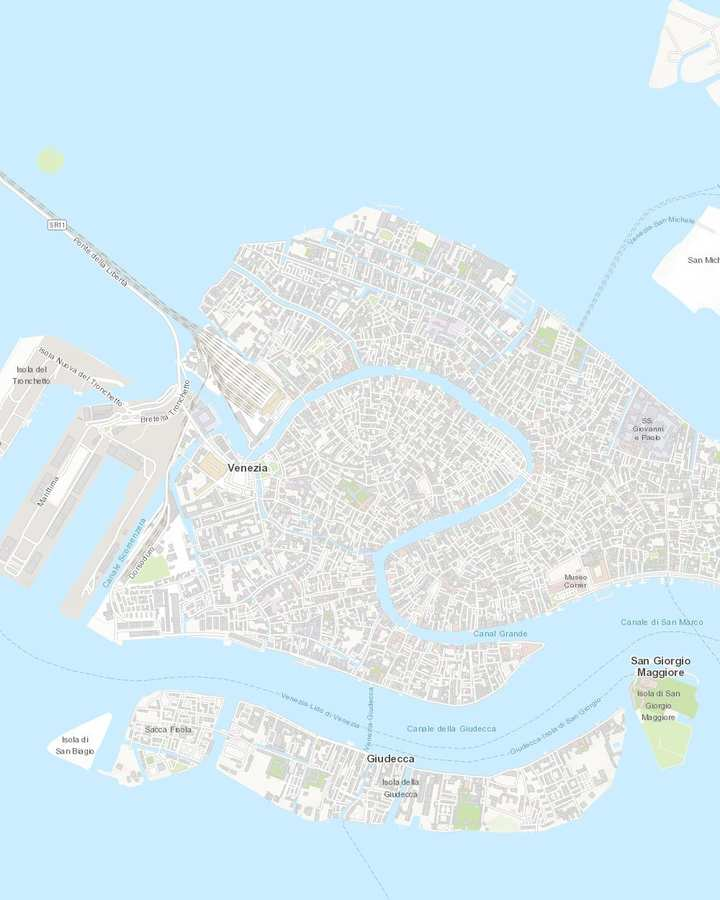
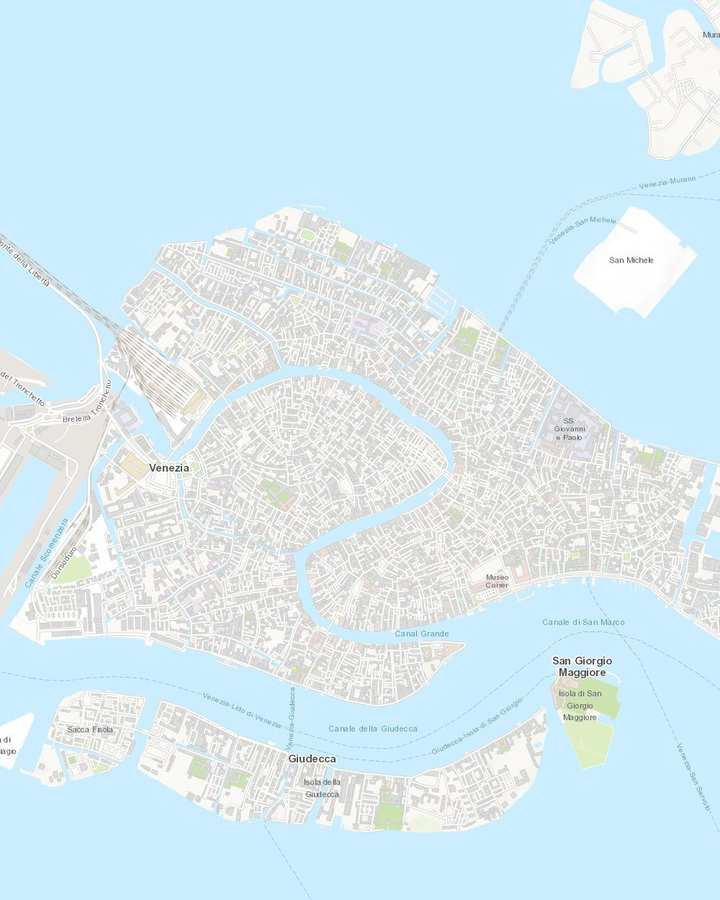
第 49 轮补：地图 6c/7a 水上巴士改画成沿大运河的船线（新增 boat 模式），7c 重取瓦片

diff --git a/index.html b/index.html
@@ -1795,31 +1795,31 @@ var MAPS2 = {
   "6c": {
     w:1000, h:1250,
     img:"maps/6c.jpg",
-    walk:[[724,660],[722,659],[728,662],[730,663],[735,667],[737,665],[738,663],[740,661],[741,659],[747,661],[752,662],[754,663],[754,666],[755,668],[758,670],[761,670],[764,671],[768,671],[772,672],[774,673],[776,675],[784,677],[788,679],[795,682],[801,684],[804,685],[808,687],[810,688],[812,690],[815,693],[819,697],[820,699],[822,702],[826,707],[831,704],[832,704],[832,704],[826,707],[821,710],[815,714],[810,718],[808,720],[806,723],[804,725],[801,728],[797,732],[799,735],[795,739],[793,740],[791,742],[788,746],[791,751],[794,759],[797,764],[799,766],[800,769],[801,771],[803,775],[798,778],[792,782],[792,782],[798,778],[803,775],[802,772],[800,769],[799,767],[797,764],[795,760],[791,751],[788,746],[786,744],[789,741],[783,735],[772,727],[771,724],[769,723],[759,715],[754,711],[756,708],[758,704],[753,702],[747,700],[744,698],[741,697],[743,692],[735,684],[737,681],[741,672],[739,671],[736,669],[734,668],[730,663],[728,662],[723,658],[722,660],[723,658],[725,655],[723,654],[721,652],[722,650],[725,644],[728,640],[723,635],[718,631],[718,628],[711,619],[709,617],[701,609],[703,607],[700,605],[692,598],[690,596],[693,596],[698,583],[699,580],[704,575],[708,567],[706,566],[702,563],[697,559],[694,557],[684,551],[682,550],[679,548],[675,546],[673,544],[671,543],[668,540],[666,537],[664,535],[661,531],[660,529],[659,527],[657,525],[656,523],[651,515],[645,506],[642,501],[640,499],[633,505],[631,506],[628,503],[623,499],[621,494],[617,492],[612,495],[610,502],[607,502],[605,501],[604,503],[603,509],[604,503],[605,501],[607,493],[604,492],[605,485],[606,481],[607,479],[600,477],[596,475],[592,472],[590,471],[588,470],[585,469],[580,466],[577,465],[574,465],[561,464],[558,464],[554,465],[549,467],[544,468],[542,469],[538,470],[533,471],[531,472],[525,472],[520,472],[514,473],[509,473],[504,473],[500,473],[497,474],[495,473],[492,473],[490,474],[485,476],[475,483],[474,486],[473,491],[472,496],[467,502],[465,504],[456,511],[450,516],[446,519],[443,521],[441,524],[438,526],[435,529],[425,540],[422,544],[421,547],[419,550],[409,556],[406,558],[400,551],[396,545],[391,540],[388,538],[387,540],[388,542]],
+    walk:[[615,660],[613,659],[619,662],[621,663],[626,667],[627,665],[629,663],[631,661],[632,659],[638,661],[643,662],[645,663],[645,666],[646,668],[649,670],[652,670],[655,671],[659,671],[662,672],[664,673],[666,674],[675,677],[679,679],[686,682],[692,684],[695,685],[699,687],[701,688],[703,690],[706,693],[710,697],[711,699],[713,702],[717,707],[722,704],[723,704],[723,704],[717,707],[712,710],[706,714],[701,718],[699,720],[697,723],[695,725],[692,728],[688,732],[690,735],[686,739],[684,740],[682,742],[679,746],[681,751],[685,759],[688,764],[690,766],[691,769],[692,771],[694,775],[689,778],[683,782],[683,782],[689,778],[694,775],[693,772],[691,769],[690,767],[688,764],[686,760],[681,751],[679,746],[677,744],[680,741],[674,735],[663,727],[662,724],[660,723],[650,715],[645,711],[647,708],[648,704],[644,702],[638,700],[635,698],[632,697],[634,692],[626,684],[628,681],[632,672],[630,671],[627,669],[625,668],[621,663],[619,662],[614,658],[613,660],[614,658],[616,655],[614,654],[612,652],[613,650],[616,644],[619,640],[613,635],[609,631],[609,628],[602,619],[600,617],[591,609],[593,607],[591,605],[583,598],[581,596],[584,596],[589,583],[590,580],[595,575],[599,567],[597,566],[593,563],[588,559],[585,557],[575,551],[573,550],[570,548],[566,546],[564,544],[562,543],[559,540],[557,537],[555,535],[552,531],[551,529],[550,527],[548,525],[547,523],[542,515],[536,506],[533,501],[531,499],[524,505],[522,506],[519,503],[514,499],[512,494],[508,492],[503,495],[501,502],[498,502],[496,501],[495,503],[494,509],[495,503],[496,501],[498,493],[495,492],[496,485],[497,481],[498,479],[491,477],[487,475],[485,474],[483,472],[481,471],[479,470],[476,469],[471,466],[468,465],[465,465],[452,464],[449,464],[445,465],[440,467],[435,468],[433,469],[429,470],[424,471],[422,472],[416,472],[411,472],[404,473],[399,473],[395,473],[391,473],[388,474],[386,473],[383,473],[381,474],[376,476],[366,483],[365,486],[364,491],[363,496],[358,502],[356,504],[347,511],[341,516],[337,519],[334,521],[332,524],[329,526],[326,529],[316,540],[313,544],[311,547],[310,550],[300,556],[297,558],[291,551],[287,545],[282,540],[279,538],[278,540],[279,542]],
     walkBreaks:[36, 60],
-    drive:[[299,621],[293,614],[290,614],[288,612],[283,606],[281,602],[278,598],[273,591],[268,584],[266,581],[264,578],[263,576],[260,571],[258,567],[255,560],[254,558],[253,556],[252,553],[252,549],[251,547],[249,546],[246,546],[245,548],[241,553],[238,556],[236,558],[235,560],[231,562],[228,564],[225,565],[222,567],[219,567],[215,568],[206,569],[203,570],[200,570],[198,571],[195,573],[193,574],[191,575],[188,576],[185,577],[181,578],[177,577],[174,577],[171,577],[169,578],[168,580],[169,583],[170,585],[172,586],[174,585],[178,584],[182,583],[185,583],[187,584],[190,584],[193,584],[195,582],[195,579],[195,575],[196,573],[198,571],[200,570],[203,570],[206,569],[214,569],[219,567],[222,567],[225,565],[228,564],[231,562],[235,560],[236,558],[238,556],[240,554],[243,551],[246,550],[248,551],[250,552],[251,555],[252,558],[253,562],[254,565],[255,567],[256,569],[257,571],[259,574],[263,580],[265,582],[281,608],[286,613],[287,615],[293,621],[295,624],[297,627],[299,629],[301,631],[303,633],[306,634],[308,636],[311,638],[313,640],[315,643],[319,646],[323,649],[325,650],[327,648],[325,646],[310,634],[306,631],[301,626],[295,620],[290,614],[288,612],[283,606],[281,602],[278,598],[273,591],[268,584],[266,581],[264,578],[263,576],[260,571],[258,567],[255,560],[254,558],[253,556],[252,553],[252,549],[251,547],[249,546],[246,546],[245,548],[241,553],[238,556],[236,558],[235,560],[231,562],[228,564],[225,565],[222,567],[219,567],[215,568],[206,569],[203,570],[200,570],[198,571],[195,573],[193,574],[191,575],[188,576],[185,577],[181,578],[177,577],[174,577],[171,577],[169,578],[168,580],[169,583],[170,585],[172,586],[174,585],[178,584],[182,583],[185,583],[187,584],[190,584],[193,584],[195,582],[195,579],[195,575],[196,573],[198,571],[200,570],[203,570],[206,569],[214,569],[219,567],[222,567],[225,565],[228,564],[231,562],[235,560],[236,558],[238,556],[240,554],[243,551],[246,550],[248,551],[250,552],[251,555],[252,558],[253,562],[254,565],[255,567],[256,569],[257,571],[259,574],[263,580],[265,582],[281,608],[286,613],[287,615],[293,621],[295,624],[297,627],[299,629],[301,631],[303,633],[306,634],[308,636],[311,638],[313,640],[315,643],[319,646],[323,649],[321,651],[319,654],[309,667],[308,670],[308,673],[312,677],[314,678],[321,680],[332,684],[337,686],[339,685],[340,683],[338,682],[330,680],[314,673],[312,674],[312,677],[314,678],[321,680],[332,684],[337,686],[339,685],[340,684]],
+    drive:[[279,543],[320,562],[402,546],[484,529],[530,579],[588,569],[612,612],[615,660]],
     driveBreaks:[],
     title:"D6 晚上 威尼斯（2 号船进 · 步行 · 走回车站）",
     pins:[
-      {x:389,y:543,n:1,k:"transit",l:"Santa Lucia 站 · Ferrovia 码头",m:"Venezia Santa Lucia",mo:"driving",leg:"2 号船 12 分"},
-      {x:724,y:660,n:2,k:"transit",l:"Rialto 码头 · 里亚托桥",m:"Ponte di Rialto Venezia",mo:"walking",leg:"步行 10 分"},
-      {x:832,y:704,n:3,k:"eat",l:"晚饭 Da Carletto 19:15",m:"Da Carletto Calle de le Bande 5272 Venezia",mo:"walking",leg:"步行 5 分"},
-      {x:795,y:786,n:4,k:"sight",l:"圣马可广场夜景",m:"Piazza San Marco Venezia",mo:"walking",leg:"步行 30 分回车站 · 经里亚托桥、Strada Nova"}
+      {x:279,y:543,n:1,k:"transit",l:"Santa Lucia 站 · Ferrovia 码头",m:"Venezia Santa Lucia",mo:"driving",leg:"2 号船 12 分"},
+      {x:615,y:660,n:2,k:"transit",l:"Rialto 码头 · 里亚托桥",m:"Ponte di Rialto Venezia",mo:"walking",leg:"步行 10 分"},
+      {x:723,y:704,n:3,k:"eat",l:"晚饭 Da Carletto 19:15",m:"Da Carletto Calle de le Bande 5272 Venezia",mo:"walking",leg:"步行 5 分"},
+      {x:686,y:786,n:4,k:"sight",l:"圣马可广场夜景",m:"Piazza San Marco Venezia",mo:"walking",leg:"步行 30 分回车站 · 经里亚托桥、Strada Nova"}
     ]
   },
   "7a": {
     w:1000, h:1250,
     img:"maps/7a.jpg",
-    walk:[[575,757],[578,759],[585,769],[589,777],[591,780],[592,778],[595,776],[599,776],[601,775],[611,771],[610,768],[614,766],[616,765],[618,764],[620,767],[625,764],[629,761],[630,759],[635,755],[640,751],[646,750],[648,752],[653,758],[659,751],[661,749],[664,752],[667,749],[669,747],[671,748],[674,747],[672,745],[670,743],[671,740],[673,739],[671,736],[677,731],[679,730],[674,720],[681,716],[687,713],[690,712],[688,710],[682,698],[680,696],[683,693],[685,692],[691,689],[696,686],[701,682],[703,680],[708,676],[713,672],[717,667],[719,666],[721,666],[721,666],[718,666],[720,664],[725,668],[727,670],[731,674],[733,671],[735,669],[737,667],[744,667],[748,668],[750,669],[752,663],[754,655],[753,653],[754,643],[755,639],[755,636],[755,633],[754,627],[754,623],[754,620],[754,616],[756,615],[758,614],[763,613],[766,613],[770,612],[774,611],[777,610],[779,608],[782,607],[787,604],[790,607],[792,605],[794,604],[797,602],[799,605],[803,608],[807,609],[811,606],[814,606],[821,608],[824,608],[835,612],[835,612],[825,608],[822,608],[816,606],[813,606],[808,609],[803,608],[799,605],[797,602],[794,604],[792,605],[790,607],[787,604],[782,607],[779,608],[777,610],[774,611],[772,612],[766,613],[763,613],[759,614],[756,613],[753,612],[750,612],[748,611],[746,609],[745,606],[745,603],[741,603],[739,602],[740,600],[741,598],[741,594],[735,592],[725,587],[723,586],[718,583],[711,578],[706,575],[704,573],[698,569],[694,566],[691,564],[681,558],[678,556],[675,555],[672,552],[669,551],[664,546],[662,544],[661,542],[658,538],[657,536],[655,534],[654,532],[653,530],[648,522],[641,512],[638,508],[637,506],[630,511],[628,513],[625,510],[620,506],[618,500],[614,498],[608,502],[607,509],[604,508],[601,508],[599,515],[600,509],[601,507],[603,499],[600,499],[601,496],[602,492],[603,487],[597,484],[595,483],[593,482],[591,481],[589,479],[587,478],[585,477],[583,476],[576,473],[573,472],[570,472],[557,470],[551,472],[546,473],[541,475],[539,476],[534,477],[530,478],[526,478],[521,478],[517,479],[514,479],[510,479],[505,479],[500,480],[497,480],[493,480],[489,479],[487,480],[485,481],[482,482],[471,490],[470,498],[468,503],[464,508],[462,509],[452,518],[446,523],[443,525],[440,528],[437,530],[435,532],[432,535],[421,546],[419,550],[418,552],[417,554],[415,556],[405,563],[403,564],[397,558],[392,551],[387,546],[385,544],[383,546],[384,549]],
-    walkBreaks:[55, 100],
-    drive:[[296,627],[290,621],[288,620],[285,618],[280,612],[277,609],[275,605],[270,597],[265,590],[263,587],[261,584],[257,578],[256,576],[254,573],[251,566],[250,564],[249,561],[249,557],[248,554],[246,552],[243,552],[242,554],[238,559],[236,561],[235,563],[233,564],[231,566],[228,569],[225,570],[221,572],[218,573],[215,574],[212,575],[203,576],[200,576],[197,577],[194,578],[192,579],[190,581],[188,582],[184,582],[182,583],[180,584],[177,584],[174,584],[171,583],[168,583],[166,584],[165,586],[166,590],[168,592],[171,592],[175,590],[179,590],[182,590],[185,590],[187,591],[189,590],[191,588],[192,586],[192,582],[193,580],[194,578],[197,577],[200,576],[203,576],[210,575],[215,574],[218,573],[221,572],[225,570],[228,569],[231,566],[233,564],[235,563],[236,561],[238,559],[240,558],[242,557],[245,557],[247,558],[248,562],[250,568],[251,571],[252,573],[253,575],[254,577],[255,580],[260,587],[261,589],[278,614],[283,620],[289,628],[292,630],[294,634],[296,636],[298,638],[300,639],[302,641],[305,642],[307,644],[309,647],[311,648],[316,653],[319,655],[321,656],[323,655],[322,653],[307,641],[303,637],[298,633],[292,626],[287,621],[285,618],[280,612],[277,609],[275,605],[270,597],[265,590],[263,587],[261,584],[257,578],[256,576],[254,573],[251,566],[250,564],[249,561],[249,557],[248,554],[246,552],[243,552],[242,554],[238,559],[236,561],[235,563],[233,564],[231,566],[228,569],[225,570],[221,572],[218,573],[215,574],[212,575],[203,576],[200,576],[197,577],[194,578],[192,579],[190,581],[188,582],[184,582],[182,583],[180,584],[177,584],[174,584],[171,583],[168,583],[166,584],[165,586],[166,590],[168,592],[171,592],[175,590],[179,590],[182,590],[185,590],[187,591],[189,590],[191,588],[192,586],[192,582],[193,580],[194,578],[197,577],[200,576],[203,576],[210,575],[215,574],[218,573],[221,572],[225,570],[228,569],[231,566],[233,564],[235,563],[236,561],[238,559],[240,558],[242,557],[245,557],[247,558],[248,562],[250,568],[251,571],[252,573],[253,575],[254,577],[255,580],[260,587],[261,589],[278,614],[283,620],[289,628],[292,630],[294,634],[296,636],[298,638],[300,639],[302,641],[305,642],[307,644],[309,647],[311,648],[316,653],[319,655],[318,658],[315,661],[306,673],[304,676],[305,679],[309,683],[311,684],[317,687],[328,691],[334,692],[336,691],[335,689],[326,686],[310,680],[309,682],[311,684],[317,687],[328,691],[334,692],[336,691]],
+    walk:[[466,757],[469,759],[476,769],[480,777],[482,780],[483,778],[486,776],[490,776],[492,775],[502,771],[501,768],[505,766],[509,764],[510,767],[512,768],[516,764],[520,761],[521,759],[526,755],[531,751],[537,750],[539,752],[544,758],[550,751],[552,749],[555,752],[558,749],[560,747],[562,748],[565,747],[563,745],[561,743],[562,740],[564,739],[562,736],[568,731],[570,730],[565,720],[572,716],[578,713],[580,712],[579,710],[573,698],[571,696],[574,693],[576,692],[581,689],[586,686],[592,682],[594,680],[598,676],[604,672],[608,667],[610,666],[612,666],[612,666],[609,666],[611,664],[616,668],[617,670],[622,674],[624,671],[626,669],[628,667],[635,667],[639,668],[641,669],[643,663],[645,655],[644,653],[645,643],[646,639],[646,636],[646,633],[645,627],[645,623],[645,620],[645,616],[647,615],[649,614],[654,613],[661,612],[665,611],[668,610],[670,608],[673,607],[678,604],[681,607],[683,605],[685,604],[688,602],[690,605],[694,608],[698,609],[702,606],[705,606],[712,608],[715,608],[726,612],[726,612],[716,608],[713,608],[707,606],[704,606],[699,609],[694,608],[690,605],[688,602],[685,604],[683,605],[681,607],[678,604],[673,607],[670,608],[668,610],[665,611],[663,612],[656,613],[650,614],[646,613],[644,612],[641,612],[639,611],[637,609],[636,606],[636,603],[632,603],[630,602],[631,600],[632,598],[632,594],[626,592],[616,587],[614,586],[609,583],[602,578],[597,575],[595,573],[589,569],[585,566],[582,564],[572,558],[570,557],[566,555],[563,552],[560,551],[555,546],[553,544],[552,542],[549,538],[548,536],[546,534],[545,532],[544,530],[538,522],[532,512],[529,508],[528,506],[520,511],[519,513],[516,510],[511,506],[509,500],[505,498],[499,502],[498,509],[495,508],[492,508],[490,515],[491,509],[492,507],[494,499],[491,499],[492,496],[493,492],[494,487],[488,484],[486,483],[484,482],[482,481],[480,479],[478,478],[476,477],[474,476],[467,473],[464,472],[461,472],[448,470],[445,470],[442,472],[437,473],[432,475],[430,476],[425,477],[421,478],[417,478],[412,478],[408,479],[405,479],[401,479],[396,479],[391,480],[388,480],[384,480],[380,479],[378,480],[376,481],[373,482],[371,483],[362,490],[361,492],[361,498],[359,503],[355,508],[353,509],[343,518],[337,523],[334,525],[331,528],[328,530],[326,532],[323,535],[312,546],[310,550],[309,552],[308,554],[306,556],[296,563],[294,564],[288,558],[283,551],[278,546],[276,544],[274,546],[275,549]],
+    walkBreaks:[55, 99],
+    drive:[[276,549],[317,569],[399,552],[480,536],[527,585],[585,575],[608,619],[612,666],[585,712],[527,775],[459,758]],
     driveBreaks:[],
     title:"D7 上午 威尼斯（1 号船到 San Tomà · 贡多拉 · 步行回车站）",
     pins:[
-      {x:385,y:549,n:1,k:"transit",l:"Santa Lucia 站 · Ferrovia 码头",m:"Venezia Santa Lucia",mo:"driving",leg:"1 号船 25 分（2 号船 15 分）"},
-      {x:568,y:758,n:2,k:"sight",l:"San Tomà 码头 · 贡多拉 9:40",m:"Gondola San Toma Venezia",mo:"walking",leg:"步行 10 分"},
-      {x:721,y:666,n:3,k:"sight",l:"里亚托桥 + 蔬果市场",m:"Ponte di Rialto Venezia",mo:"walking",leg:"步行 10 分"},
-      {x:835,y:612,n:4,k:"eat",l:"午饭 Osteria da Alberto 11:30",m:"Osteria da Alberto Venezia",mo:"walking",leg:"步行 25 分回车站（或 Rialto 码头 2 号船 12 分）"}
+      {x:276,y:549,n:1,k:"transit",l:"Santa Lucia 站 · Ferrovia 码头",m:"Venezia Santa Lucia",mo:"driving",leg:"1 号船 25 分（2 号船 15 分）"},
+      {x:459,y:758,n:2,k:"sight",l:"San Tomà 码头 · 贡多拉 9:40",m:"Gondola San Toma Venezia",mo:"walking",leg:"步行 10 分"},
+      {x:612,y:666,n:3,k:"sight",l:"里亚托桥 + 蔬果市场",m:"Ponte di Rialto Venezia",mo:"walking",leg:"步行 10 分"},
+      {x:726,y:612,n:4,k:"eat",l:"午饭 Osteria da Alberto 11:30",m:"Osteria da Alberto Venezia",mo:"walking",leg:"步行 25 分回车站（或 Rialto 码头 2 号船 12 分）"}
     ]
   },
   "7b": {
